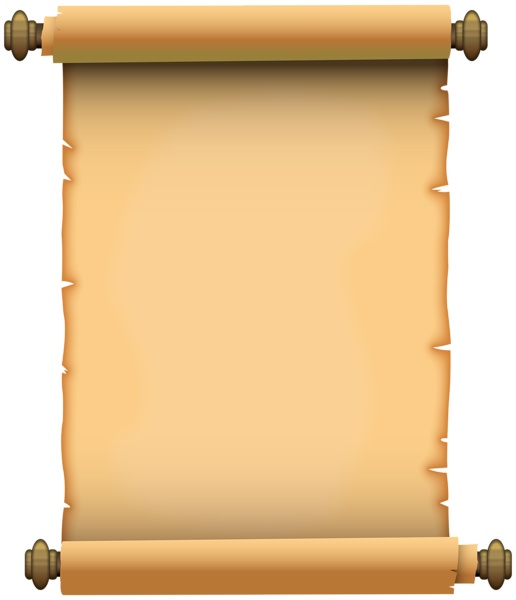
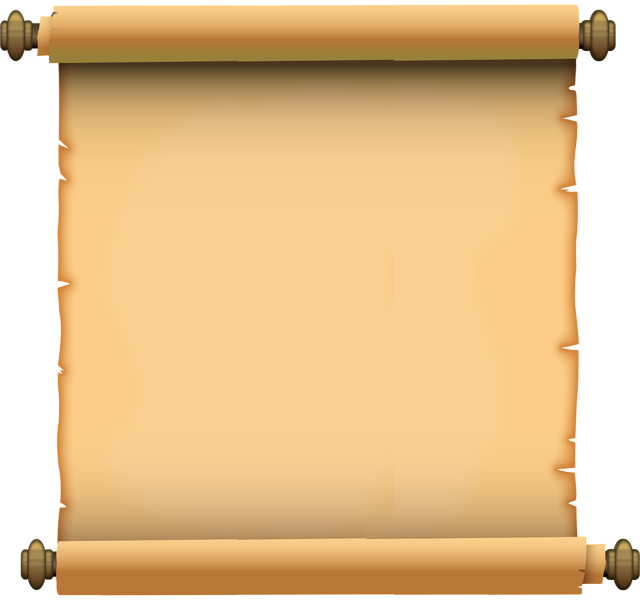
Increased quest log width.

diff --git a/assets/css/styles.css b/assets/css/styles.css
@@ -3,7 +3,7 @@
 ::-webkit-scrollbar-thumb{background:#60351D;border-radius: 5px}
 ::-webkit-scrollbar-thumb:hover{background:#60351D}
 body{margin:0}
-.quest-log{position:absolute;right:10px;top:10px;width:200px;height:233px;background:url(../img/quest-log.png) no-repeat;background-size:100% 100%;box-sizing:border-box;padding:25px;font-family:'Laila',serif;font-size:11px}
+.quest-log{position:absolute;right:10px;top:10px;width:256px;height:240px;background:url(../img/quest-log.png) no-repeat;background-size:100% 100%;box-sizing:border-box;padding:25px;font-family:'Laila',serif;font-size:11px}
 .quest-log ol{margin:0 13px;padding:0;overflow-x:visible;overflow-y:scroll;height:140px}
 .quest-log li{list-style-position:inside}
 .quest-log li b{font-size:12px}
